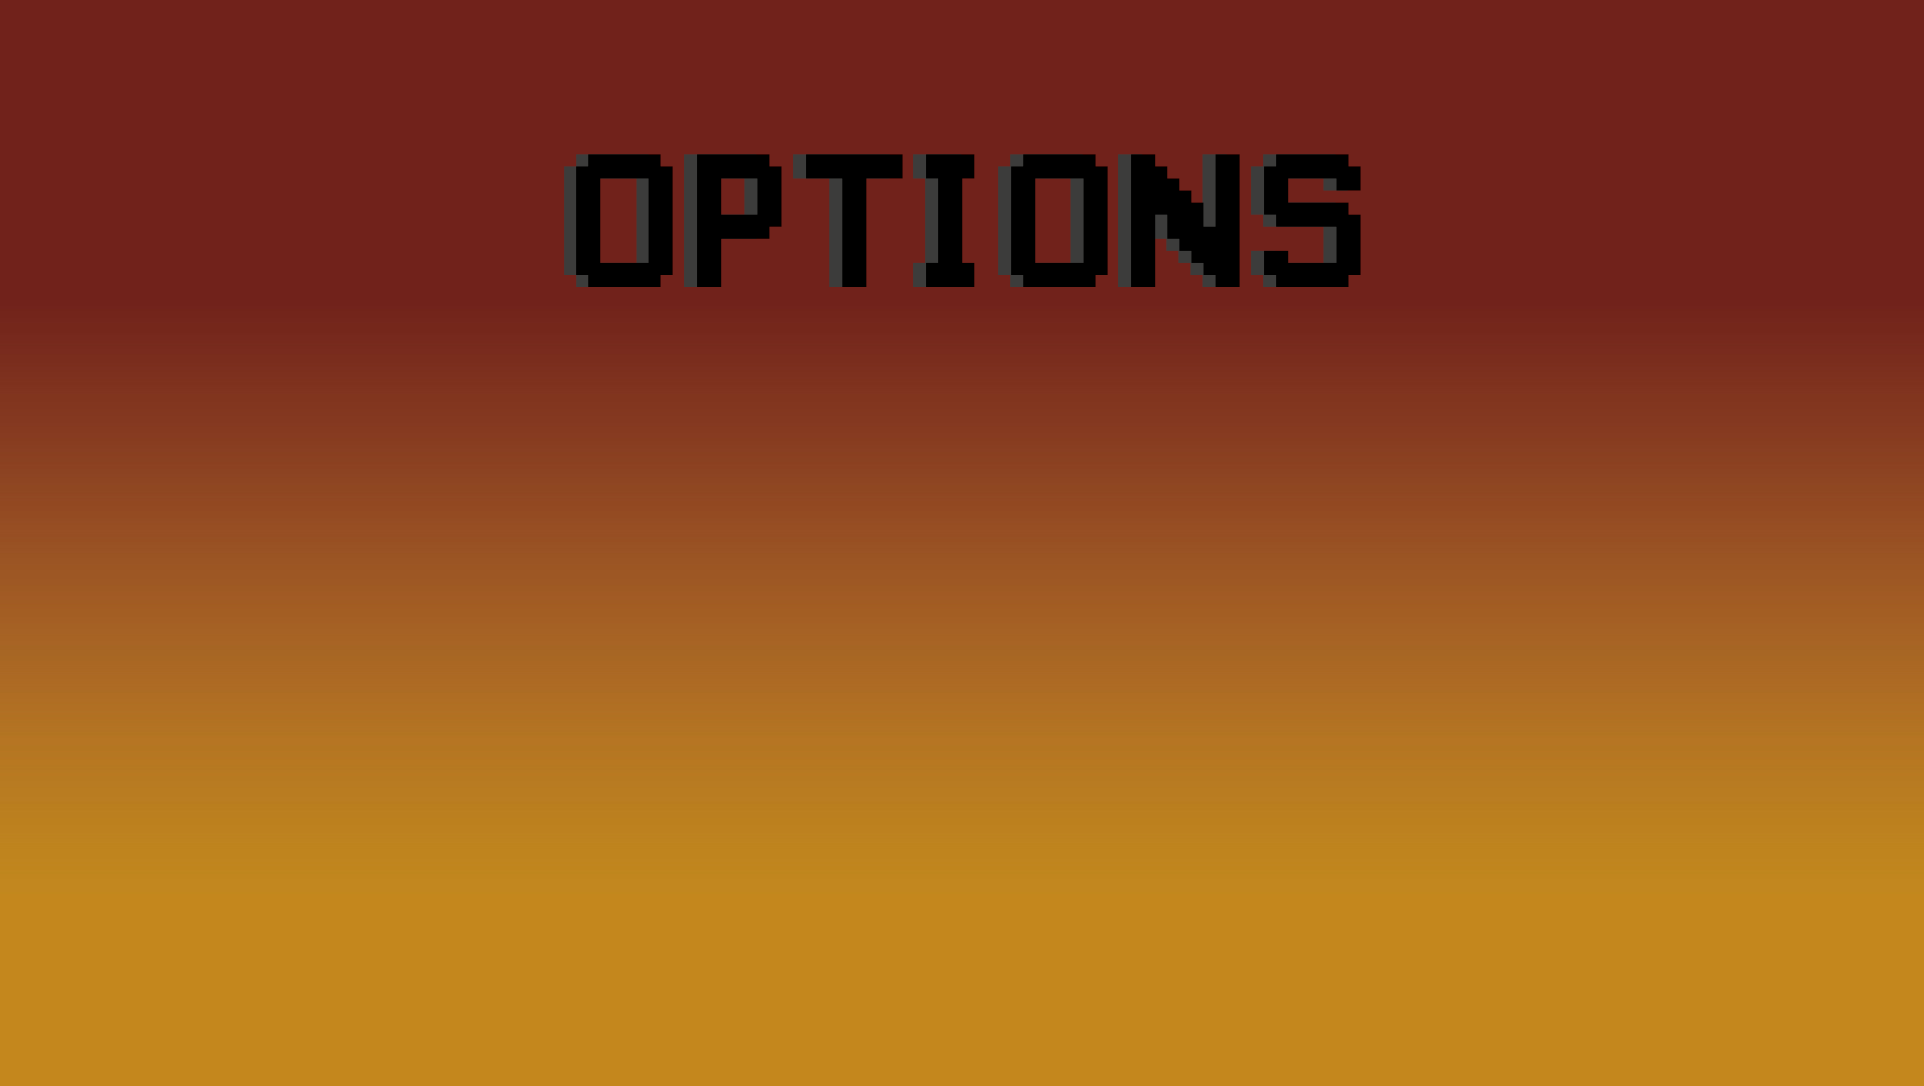
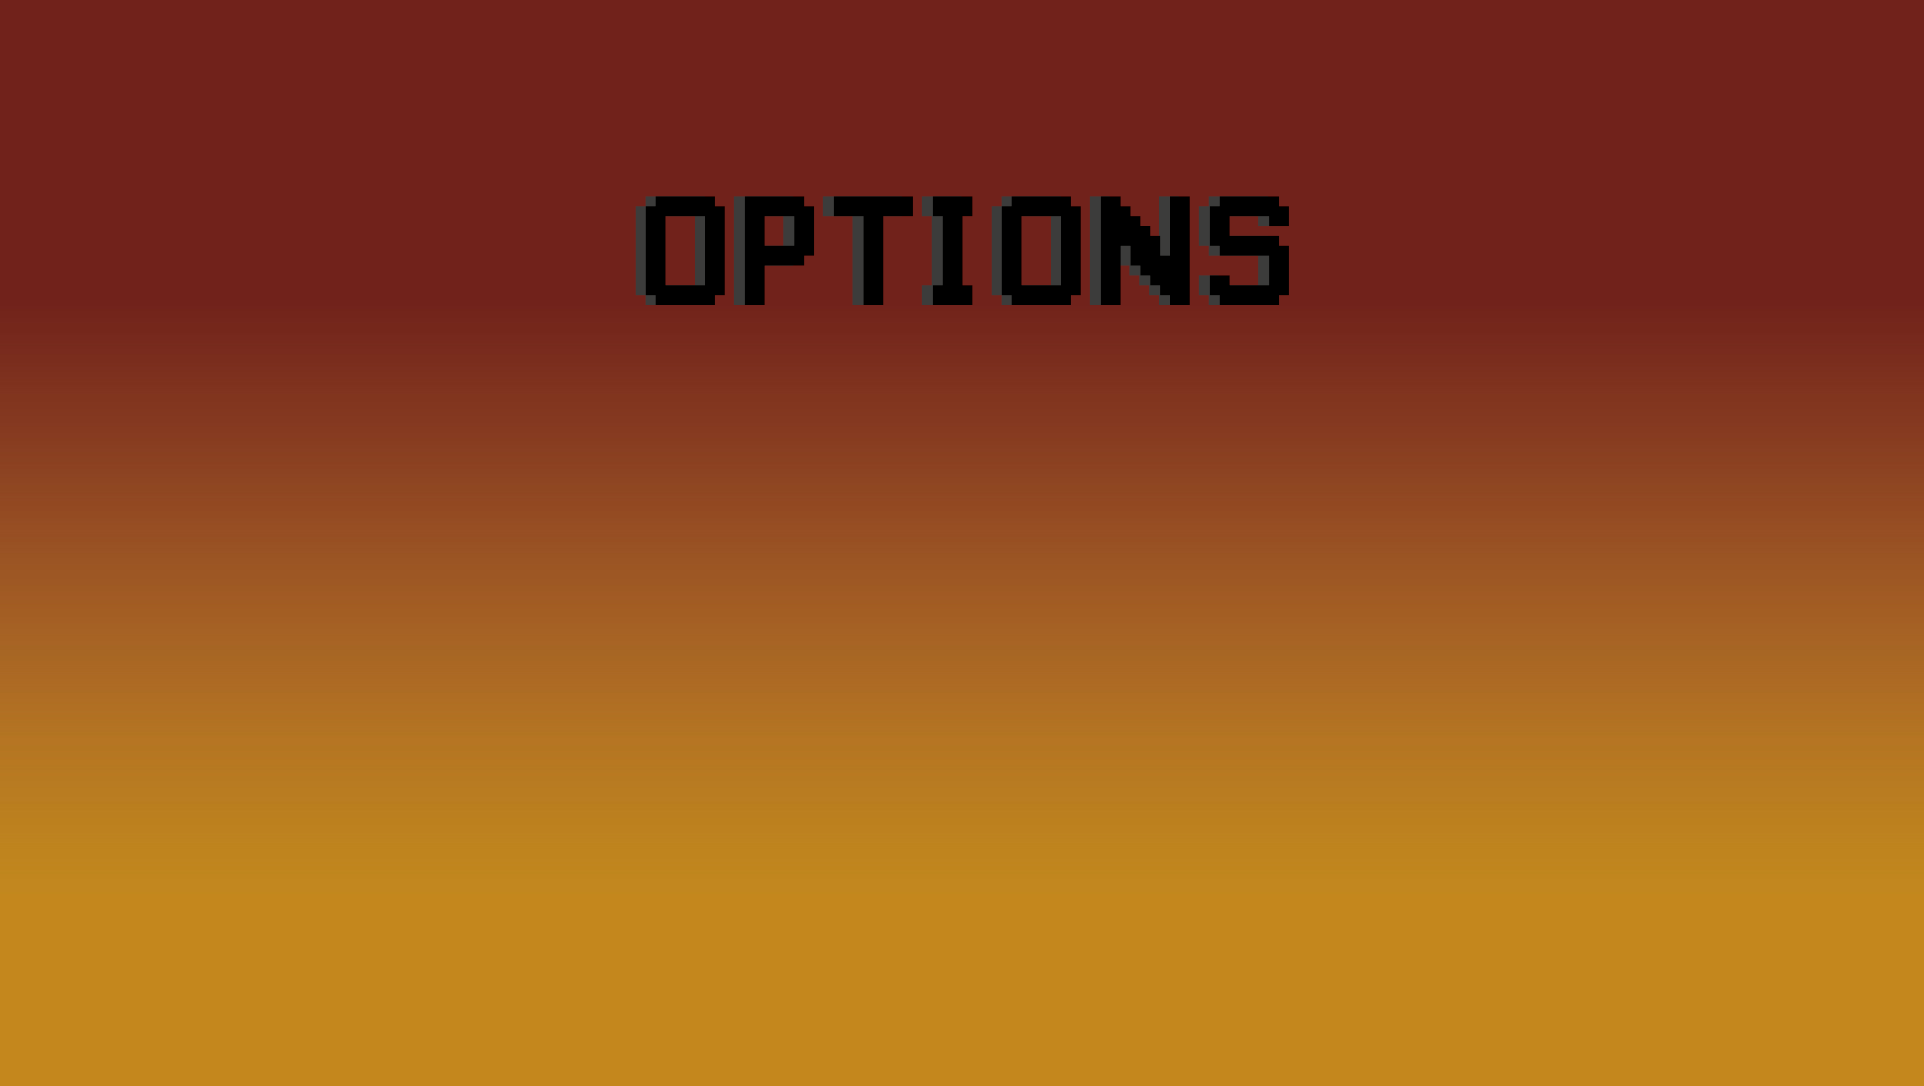
Options

Changed region(s): [[0.2807, 0.1215, 0.7173, 0.3039]]

diff --git a/MainMenue.py b/MainMenue.py
@@ -20,25 +20,27 @@ class MainMenu:
         self.background_image = pygame.transform.scale(self.background_image, (WIDTH, HEIGHT))
 
         # Button-Bilder laden und skalieren
+        button_width, button_height = 400, 100
+        button_gap = 150
+        button_y = HEIGHT // 2 - 1.5 * button_height + 50  # Adjusted position
+
         self.start_button_image = pygame.image.load('Assets/Buttons/Start1.png')
-        self.start_button_image = pygame.transform.scale(self.start_button_image, (400, 100))
+        self.start_button_image = pygame.transform.scale(self.start_button_image, (button_width, button_height))
         self.start_button_hover_image = pygame.image.load('Assets/Buttons/Start2.png')
-        self.start_button_hover_image = pygame.transform.scale(self.start_button_hover_image, (400, 100))
+        self.start_button_hover_image = pygame.transform.scale(self.start_button_hover_image, (button_width, button_height))
+        self.start_button_rect = self.start_button_image.get_rect(center=(WIDTH // 2, button_y))
 
         self.options_button_image = pygame.image.load('Assets/Buttons/Options1.png')
-        self.options_button_image = pygame.transform.scale(self.options_button_image, (400, 100))
+        self.options_button_image = pygame.transform.scale(self.options_button_image, (button_width, button_height))
         self.options_button_hover_image = pygame.image.load('Assets/Buttons/Options2.png')
-        self.options_button_hover_image = pygame.transform.scale(self.options_button_hover_image, (400, 100))
+        self.options_button_hover_image = pygame.transform.scale(self.options_button_hover_image, (button_width, button_height))
+        self.options_button_rect = self.options_button_image.get_rect(center=(WIDTH // 2, button_y + button_gap))
 
         self.quit_button_image = pygame.image.load('Assets/Buttons/Quit1.png')
-        self.quit_button_image = pygame.transform.scale(self.quit_button_image, (400, 100))
+        self.quit_button_image = pygame.transform.scale(self.quit_button_image, (button_width, button_height))
         self.quit_button_hover_image = pygame.image.load('Assets/Buttons/Quit2.png')
-        self.quit_button_hover_image = pygame.transform.scale(self.quit_button_hover_image, (400, 100))
-
-        # Positionen der Buttons
-        self.start_button_rect = self.start_button_image.get_rect(center=(WIDTH // 2, HEIGHT // 2 - 2))
-        self.options_button_rect = self.options_button_image.get_rect(center=(WIDTH // 2, HEIGHT //  + 1.6))
-        self.quit_button_rect = self.quit_button_image.get_rect(center=(WIDTH // 2, HEIGHT // 2 + 250))
+        self.quit_button_hover_image = pygame.transform.scale(self.quit_button_hover_image, (button_width, button_height))
+        self.quit_button_rect = self.quit_button_image.get_rect(center=(WIDTH // 2, button_y + 2 * button_gap))
 
     def run(self):
         clock = pygame.time.Clock()
@@ -61,7 +63,7 @@ class MainMenu:
                         self.start_game()
                         running = False
                     elif self.options_button_rect.collidepoint(mouse_pos):
-                        self.show_options()
+                        self.open_options()
                     elif self.quit_button_rect.collidepoint(mouse_pos):
                         running = False
 
@@ -80,8 +82,55 @@ class MainMenu:
     def start_game(self):
         subprocess.Popen([sys.executable, 'game.py'])
 
-    def show_options(self):
-        print("Optionen anzeigen...")  # Platzhalter für die Optionslogik
+    def open_options(self):
+        options_window = OptionsWindow()
+        options_window.run()
+
+class OptionsWindow:
+    def __init__(self):
+        pygame.init()
+        self.screen = pygame.display.set_mode((WIDTH, HEIGHT))
+        pygame.display.set_caption('Options')
+
+        # Hintergrundbild für das Optionsfenster laden
+        self.background_image = pygame.image.load('Assets/Bilder/Hintergrund/Menü/OptionsBackground.png')
+        self.background_image = pygame.transform.scale(self.background_image, (WIDTH, HEIGHT))
+
+        # Button-Bilder für Optionsfenster laden und skalieren
+        self.new_button_image = pygame.image.load('Assets/Bilder/Hintergrund/Menü/MusikAN1.png')
+        self.new_button_image = pygame.transform.scale(self.new_button_image, (400, 100))
+        self.new_button_hover_image = pygame.image.load('Assets/Bilder/Hintergrund/Menü/MusikAN2.png')
+        self.new_button_hover_image = pygame.transform.scale(self.new_button_hover_image, (400, 100))
+
+        # Position des neuen Buttons
+        self.new_button_rect = self.new_button_image.get_rect(center=(WIDTH // 2, HEIGHT // 2))
+
+    def run(self):
+        clock = pygame.time.Clock()
+        running = True
+
+        while running:
+            self.screen.blit(self.background_image, (0, 0))
+
+            # Zeichnen des neuen Buttons mit Hover-Effekt
+            mouse_pos = pygame.mouse.get_pos()
+            self.draw_button(self.new_button_rect, self.new_button_image, self.new_button_hover_image, mouse_pos)
+
+            for event in pygame.event.get():
+                if event.type == pygame.QUIT:
+                    running = False
+
+            pygame.display.flip()
+            clock.tick(FPS)
+
+        pygame.quit()
+        sys.exit()
+
+    def draw_button(self, rect, image, hover_image, mouse_pos):
+        if rect.collidepoint(mouse_pos):
+            self.screen.blit(hover_image, rect.topleft)
+        else:
+            self.screen.blit(image, rect.topleft)
 
 if __name__ == '__main__':
     main_menu = MainMenu()
